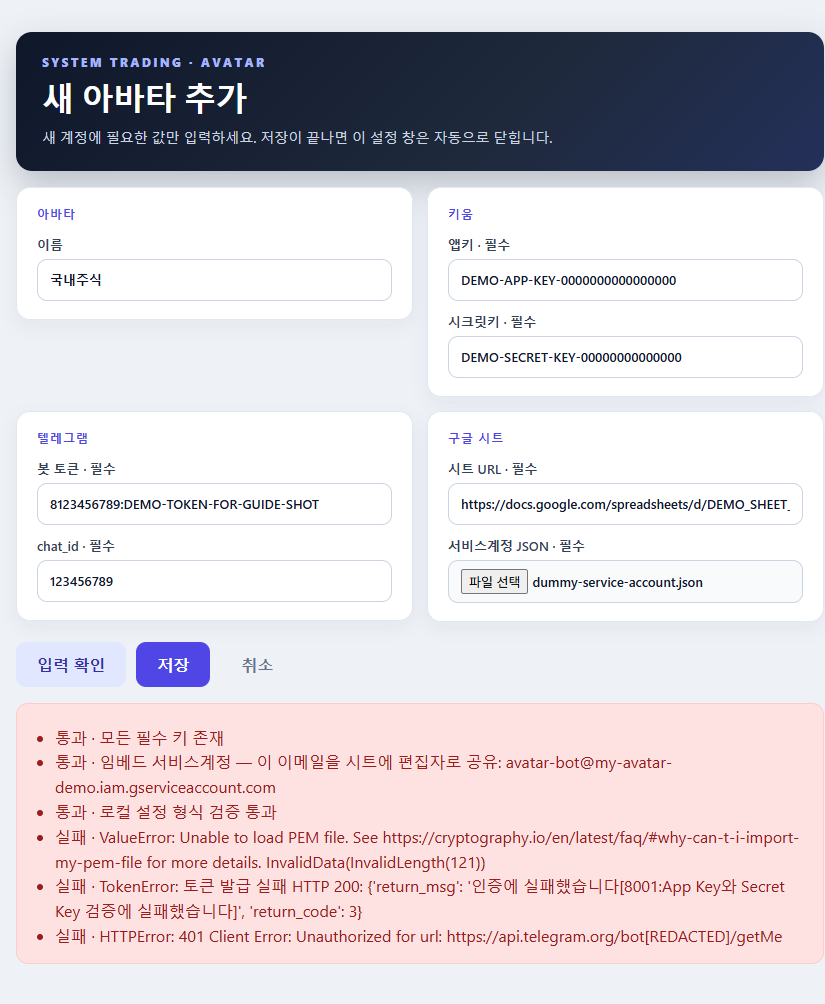
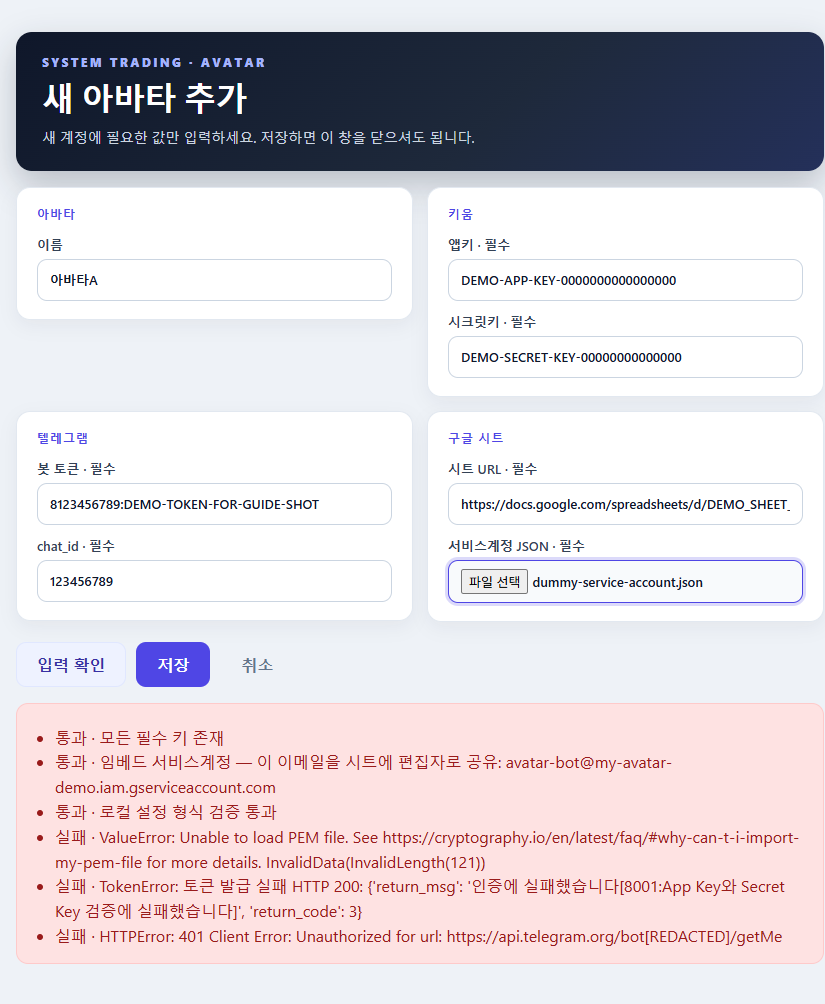
docs: 마법사 예시 이름 아바타A · 안내문 수정분 반영
코드 저장소 9293132 와 동기화. 캡처 2장 재촬영(새 안내문 "저장하면 이 창을
닫으셔도 됩니다" + 이름 예시 아바타A).

Changed region(s): [[0.5152, 0.5558, 1.0, 0.6175], [0.3636, 0.1235, 0.6667, 0.1544], [0.0606, 0.247, 0.1212, 0.3088]]

diff --git a/index.html b/index.html
@@ -644,7 +644,7 @@
       <table>
         <thead><tr><th>표시</th><th>칸</th><th>넣을 값</th><th>출처</th></tr></thead>
         <tbody>
-          <tr><td><span class="mk">1</span></td><td><b>이름</b> <span class="sec-badge">아바타</span></td><td>트레이에 표시될 계좌 이름 (예: <code>국내주식</code>) — 설정 폴더 이름도 이 값으로 만들어집니다</td><td>자유</td></tr>
+          <tr><td><span class="mk">1</span></td><td><b>이름</b> <span class="sec-badge">아바타</span></td><td>트레이에 표시될 계좌 이름 (예: <code>아바타A</code>) — 설정 폴더 이름도 이 값으로 만들어집니다</td><td>자유</td></tr>
           <tr><td><span class="mk">2</span></td><td><b>앱키</b> <span class="sec-badge">키움</span></td><td>키움 App Key</td><td>준비물 03</td></tr>
           <tr><td><span class="mk">3</span></td><td><b>시크릿키</b> <span class="sec-badge">키움</span></td><td>키움 Secret Key</td><td>준비물 03</td></tr>
           <tr><td><span class="mk">4</span></td><td><b>봇 토큰</b> <span class="sec-badge">텔레그램</span></td><td><code>8123456789:AAH…</code> 형태 <b>전체</b></td><td>준비물 04</td></tr>
@@ -725,7 +725,7 @@
     <div class="note"><span class="ic">📈</span><div>실행 상태·체결 이벤트는 <b>텔레그램</b>으로 통지되고 <b>구글 시트</b>에도 기록됩니다. 프로그램 창을 계속 열어둘 필요가 없습니다.</div></div>
 
     <div class="subhead" style="margin-top:40px"><span class="tag">상태</span> 상태 한눈에 보기 — 트레이 아이콘에 마우스 올리기</div>
-    <p style="margin:0 0 14px; color:var(--ink-soft); font-size:16px">트레이 아이콘 위에 <b>마우스를 올리면</b> 계좌별 현재 상태가 한 줄로 나옵니다 (예: <code>Avatar — 국내주식 ● 장중(남 213분)·미체결 3·시트 40초 전 / 해외 ✓ 퇴근</code>). 아이콘 상태는 셋뿐입니다 — <b>원색(불꽃이 선명)</b> 정상, <b>색바램(반쯤 회색)</b> 이상(아래 <code>!</code> 항목이 하나라도 있음), <b>회색(불이 꺼짐)</b> 전부 중지. 별도의 초록/노랑 점이 붙는 게 아니라 <b>아이콘 자체의 선명도</b>가 달라지는 방식이라, 이상 상태(색바램)는 언뜻 봐서는 구분이 어려울 수 있습니다 — 정확한 상태는 마우스를 올려 툴팁으로 확인하세요.</p>
+    <p style="margin:0 0 14px; color:var(--ink-soft); font-size:16px">트레이 아이콘 위에 <b>마우스를 올리면</b> 계좌별 현재 상태가 한 줄로 나옵니다 (예: <code>Avatar — 아바타A ● 장중(남 213분)·미체결 3·시트 40초 전 / 아바타B ✓ 퇴근</code>). 아이콘 상태는 셋뿐입니다 — <b>원색(불꽃이 선명)</b> 정상, <b>색바램(반쯤 회색)</b> 이상(아래 <code>!</code> 항목이 하나라도 있음), <b>회색(불이 꺼짐)</b> 전부 중지. 별도의 초록/노랑 점이 붙는 게 아니라 <b>아이콘 자체의 선명도</b>가 달라지는 방식이라, 이상 상태(색바램)는 언뜻 봐서는 구분이 어려울 수 있습니다 — 정확한 상태는 마우스를 올려 툴팁으로 확인하세요.</p>
     <p style="margin:0 0 14px; color:var(--ink-soft); font-size:16px">상태는 세 묶음으로 나뉩니다 — <b>실행 여부</b>, <b>정상 단계</b>(지금 뭘 하는 중인지), <b>이상</b>(<code>!</code> — 확인이 필요한 상태). 실행 후 툴팁에 뜨는 표시를 아래에서 찾으면 지금 어떤 상황인지 스스로 알 수 있습니다.</p>
 
     <p style="margin:18px 0 8px; font-weight:800">① 실행 여부</p>
